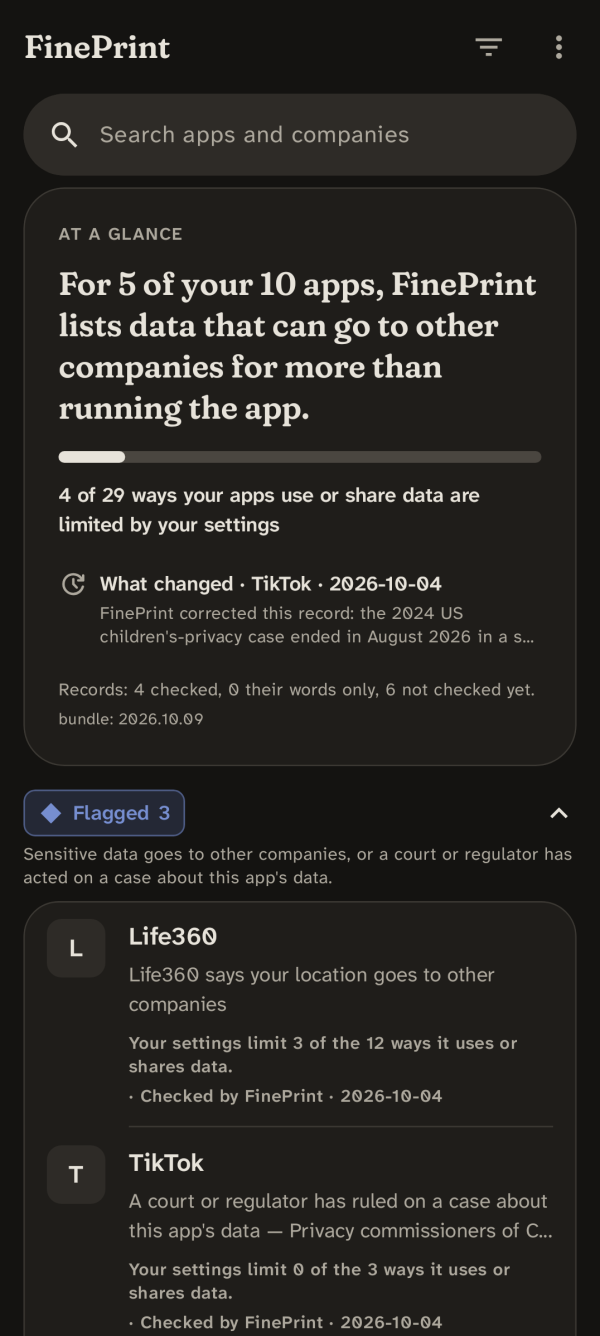
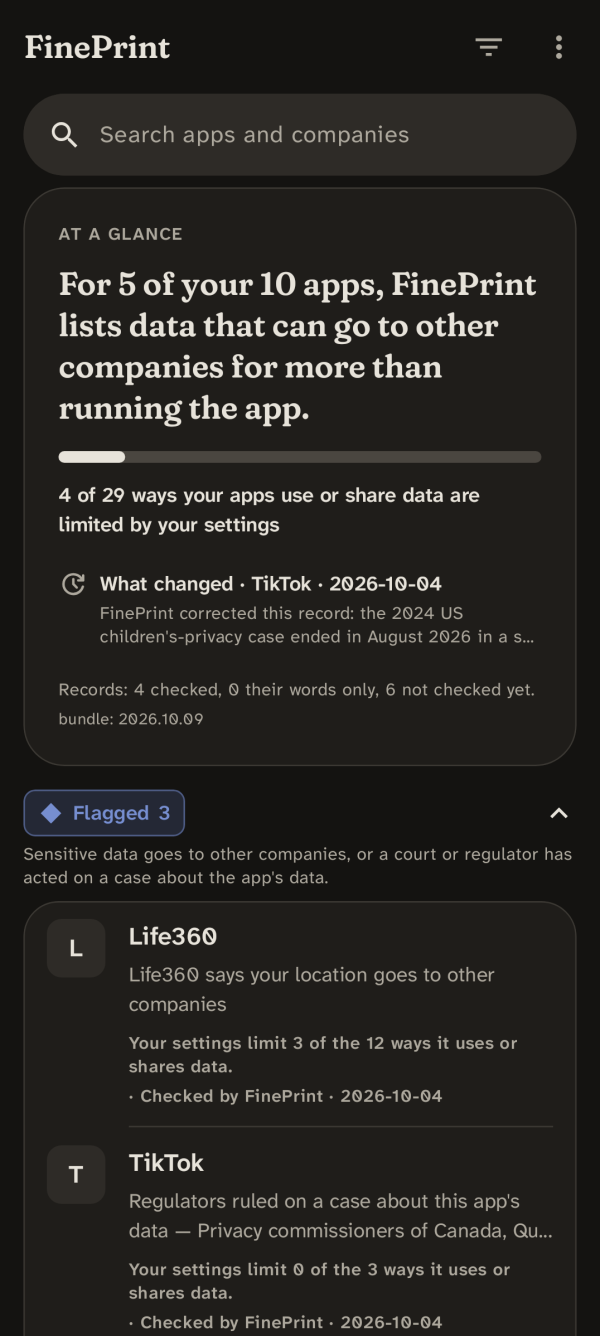
README: the second phone-test follow-up, IAB Open Measurement's note, the manual flag
Status says what the app page now opens with and how What you can do reads, and the
ruling reason's new form. About these sources lists IAB Open Measurement's note too.
Next logs the manual flag: build.py drops it today, so with the first manual source
it passes it through to the bundle, and a page saved by hand opens at its top. The
README's screenshots are drawn again (the Flagged definition, and Life360's header
without its button).

Claude-Session: https://claude.ai/code/session_016cezgH7PfKCPMWXu7PCC2T

Changed region(s): [[0.21, 0.89, 0.9, 0.9513], [0.39, 0.6445, 0.54, 0.6751]]

diff --git a/README.md b/README.md
@@ -31,7 +31,7 @@ In dark mode: [the home](docs/screenshots/home-dark.png) and [Life360](docs/scre
 
 A debug build for browsing FinePrint on any phone as it evolves, installed beside the real app. It shows the
 sample apps in the scan fixture with the knowledge bundle built in. It scans nothing on the phone and makes no
-network calls: its manifest has no internet or package-query permission, and Open app settings is turned off.
+network calls: its manifest has no internet or package-query permission, and Open app info is turned off.
 
 - Build it: `cd android && ./gradlew assemblePreviewDebug`; the APK is
   `android/app/build/outputs/apk/preview/debug/app-preview-debug.apk`.
@@ -84,9 +84,9 @@ G1 to G3 are signed off on an Android 17 emulator, G5 is built, and the schema i
   introduction, with colour only on tier and bucket chips and its contrast and colour-blind
   separation enforced by a test. The detail screen opens with "Their words", the app's Play listing
   short description quoted verbatim, then the fine print. Screenshot tests draw the home, Life360,
-  its Sources sheet, Facebook's page whole, How to read this and the introduction, light and dark,
-  at 150% and 200% text and on a small phone and a tablet (and the README's images); every device
-  test runs the accessibility checks, and TalkBack was checked on the emulator.
+  its Sources sheet, Facebook's and Life360's pages whole, How to read this and the introduction,
+  light and dark, at 150% and 200% text and on a small phone and a tablet (and the README's images);
+  every device test runs the accessibility checks, and TalkBack was checked on the emulator.
 - Schema v1.3: one tracker record covers several Exodus ids (`covers[]`); a record's history, with
   the direction of each change (`changes[]`); ongoing and past legal actions, where only ongoing
   or recent ones set a tier; government access, with a checked table of laws per country
@@ -105,21 +105,26 @@ G1 to G3 are signed off on an Android 17 emulator, G5 is built, and the schema i
   its tier ("Why it's Flagged: Life360 says your location goes to other companies"), with what set
   it listed first under "Why it's Flagged"; a search bar on the home; and an edge on every card in
   dark mode.
-- After a test on a phone: an app's page keeps its header, Their words and the fine print open, and
-  every section below starts as a row with a one-line summary that opens in place ("Where it goes ·
-  2 ways, 0 limited by your settings"); Jurisdictions is a section of its own ("Based in: United
-  States"); a ruling's reason gives the rule in the tier's own words, then who acted and when; At a
-  glance no longer counts apps per place, and a row in a tier's section leaves the tier to its
-  header; and a source's Open button goes to the quoted words where the browser supports it.
+- After a test on a phone: an app's page keeps its header, Their words and its Summary open, with
+  What you can do open under the Summary; every section after that starts as a row with a one-line
+  summary in small type that opens in place ("Where it goes · 2 ways, 0 limited by your settings"),
+  and Jurisdictions is a section of its own ("Based in: United States"). What you can do shows what
+  FinePrint reads from Android in a dashed box, the setting before and after ("Use precise location:
+  On → Off"), and what you tick in a solid one, with the day; Open app info sits in it, and
+  FinePrint reads the permissions again when you come back. A ruling's reason says who acted and
+  what came of it ("a regulator ruled on a case about this app's data — Data Protection Commission
+  (Ireland), 2024" on Facebook). At a glance no longer counts apps per place, and a row in a tier's
+  section leaves the tier to its header; a source's Open button goes to the quoted words where the
+  browser supports it.
 - Tracker records for 24 common SDKs (covering 29 tracker ids) and 26 company records, with tracker
   batches 1 and 2 merged: bundle 2026.10.09 holds them with the 4 app records and 10 jurisdictions.
-  A tracker's legal and reported lines show under On the record on every app that carries it,
-  marked about its company, and count toward a tier only when they name the app; practices reported
-  in the past go under Past. A company's changes of ownership show as a dated chain on its Sources
-  sheet (Affle's purchase of AdColony first). When a record says what its sources leave uncertain
-  (AdColony's, InMobi's, OneSignal's and Vungle's do), every Sources sheet for its lines ends with
-  that note, under About these sources; its confidence level is never shown. FinePrint's own
-  signatures sit beside εxodus's: Arity's, and Vungle's SDK 7.
+  A tracker's legal and reported lines show under On the record on every app that carries it, marked
+  about its company, and count toward a tier only when they name the app; practices reported in the
+  past go under Past. A company's changes of ownership show as a dated chain on its Sources sheet
+  (Affle's purchase of AdColony first). When a record says what its sources leave uncertain
+  (AdColony's, IAB Open Measurement's, InMobi's, OneSignal's and Vungle's do), every Sources sheet
+  for its lines ends with that note, under About these sources; its confidence level is never shown.
+  FinePrint's own signatures sit beside εxodus's: Arity's, and Vungle's SDK 7.
 - The laws table, checked entry by entry: fourteen laws in force in ten places (the US, Canada,
   China, the EU, Israel, Russia, Norway, Germany, Singapore and India), each with who it binds,
   whether the company may tell you it handed data over, when FinePrint last checked it and a Stale
@@ -136,7 +141,9 @@ A real-device check and the Tailscale path are deferred by choice. See `CLAUDE.m
 Next, in order:
 
 1. Follow-ups to the tracker batches: Mintegral's and InMobi's privacy policies, saved by hand
-   (`manual`).
+   (`manual`). With the first `manual` source, `build.py` passes the flag through to the bundle (an
+   added field), so a source's Open button takes a page saved by hand to its top, not to the quoted
+   words; today it drops the flag.
 2. G6: guided paths and Guide mode.
 3. A test on a phone.
 
